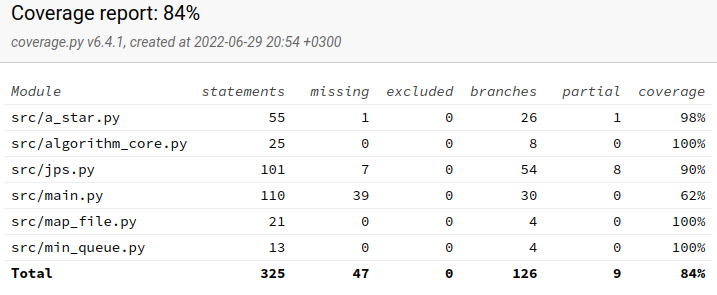
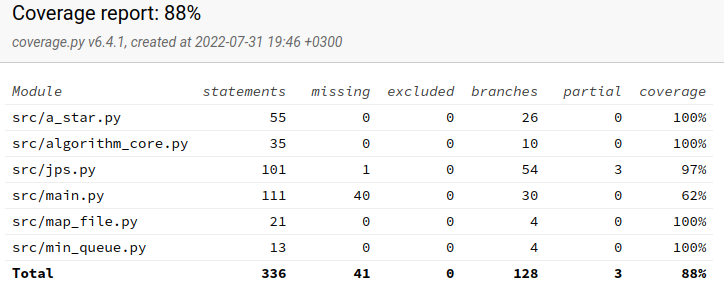
updated tests and testdocumentation

diff --git a/src/tests/test_a_star.py b/src/tests/test_a_star.py
@@ -36,7 +36,7 @@ class TestAStar(unittest.TestCase):
     def test_start_same_as_end(self):
         start = (1,1)
         end = (1,1)
-        self.assertEqual(self.test_a_star.a_star(start,end,2,1)[1], [(1,1)])
+        self.assertEqual(self.test_a_star.a_star(start,end,2,1)[1], ([(1,1)],0))
     
     def test_no_path_available_close_list(self):
         test_data = [['@','@','@','@','@'],
@@ -50,3 +50,79 @@ class TestAStar(unittest.TestCase):
         start = (1,3)
         end = (5,3)
         self.assertNotEqual(test_algorithm.a_star(start,end,2,1), "Polkua ei löytynyt!")
+    
+    def test_path_length_a_star(self):
+        test_data = [["@","@","@","@","@","@","@","@","@","@","@","@","@","@","@","@","@","@","@","@","@","@","@","@","@","@","@","@","@","@","@","@"],
+                    ["@",".",".",".","@",".",".",".",".",".",".",".",".",".",".",".",".",".",".",".",".",".",".","@","@",".",".","@","@",".",".","@"],
+                    ["@",".",".",".","@",".",".",".",".",".",".",".",".",".",".",".",".",".",".",".",".",".",".","@","@",".",".","@","@",".",".","@"],
+                    ["@",".",".",".","@","@","@","@","@","@","@","@","@","@","@","@","@","@","@","@","@",".",".",".",".",".",".","@","@",".",".","@"],
+                    ["@",".",".",".","@","@","@","@","@","@","@","@","@","@","@","@","@","@","@","@","@",".",".",".",".",".",".","@","@",".",".","@"],
+                    ["@",".",".",".","@",".",".",".",".",".",".",".",".",".","@",".",".",".",".",".",".",".",".",".",".",".",".","@","@",".",".","@"],
+                    ["@",".",".",".","@",".",".",".",".",".",".",".",".",".","@",".",".",".","@",".",".",".",".",".",".",".",".","@","@",".",".","@"],
+                    ["@",".",".",".","@",".",".",".",".",".",".",".",".",".",".",".",".",".",".",".",".",".",".",".",".",".",".","@","@",".",".","@"],
+                    ["@",".",".",".","@","@","@","@","@","@","@","@","@","@","@","@","@","@",".",".",".",".",".",".",".",".",".","@","@",".",".","@"],
+                    ["@",".",".",".","@","@",".",".",".",".",".",".","@",".",".",".",".",".",".",".","@",".",".",".",".",".",".","@","@",".",".","@"],
+                    ["@",".",".",".","@","@",".",".",".",".",".",".","@",".","@",".",".",".",".","@",".",".",".",".",".",".",".",".",".",".",".","@"],
+                    ["@",".",".",".","@","@",".",".",".",".",".",".","@",".",".",".",".",".","@",".",".",".",".",".",".",".",".",".",".",".",".","@"],
+                    ["@",".",".",".","@","@",".",".",".",".",".",".","@",".",".",".",".","@",".",".",".",".",".",".",".",".",".",".",".","@","@","@"],
+                    ["@",".",".",".","@","@",".",".",".",".",".",".","@",".",".",".","@","@","@","@","@","@","@",".","@",".",".",".",".","@","@","@"],
+                    ["@",".",".",".","@","@",".",".",".","@",".",".","@",".",".","@",".",".",".",".",".",".",".",".",".",".",".",".",".","@","@","@"],
+                    ["@",".",".",".","@","@",".",".","@",".",".",".","@",".","@",".",".",".",".",".",".",".","@",".",".",".",".",".",".","@","@","@"],
+                    ["@",".",".",".","@","@",".","@",".",".",".",".","@","@",".",".",".",".",".",".",".",".","@",".",".",".",".",".",".","@","@","@"],
+                    ["@",".",".",".","@","@","@",".",".",".",".",".","@","@","@","@","@","@","@","@","@","@","@","@","@","@",".",".",".","@","@","@"],
+                    ["@",".",".",".",".","@",".",".",".",".",".",".","@",".",".",".",".",".",".",".",".",".",".",".",".",".",".",".",".","@","@","@"],
+                    ["@","@",".",".",".",".",".",".",".","@","@","@","@",".",".",".",".",".",".",".",".",".",".",".",".",".",".",".",".","@","@","@"],
+                    ["@","@",".",".",".",".",".",".",".","@","@","@","@","@","@","@","@","@","@","@","@","@","@",".",".",".",".",".",".",".",".","@"],
+                    ["@",".",".",".",".",".",".",".",".",".",".",".",".","@","@",".",".",".",".",".",".",".",".",".",".",".",".",".",".",".",".","@"],
+                    ["@",".",".",".",".","@",".",".",".",".",".",".",".",".","@","@",".",".","@",".",".",".",".",".",".",".",".",".",".",".",".","@"],
+                    ["@","@",".",".",".",".",".",".",".",".",".",".",".",".",".","@","@",".",".","@",".",".",".","@",".",".",".",".",".",".",".","@"],
+                    ["@",".",".",".",".",".",".",".","@",".",".",".",".",".",".",".","@","@",".",".","@",".",".",".","@",".",".",".",".","@",".","@"],
+                    ["@",".","@",".",".",".",".",".",".",".",".",".",".",".",".",".",".","@","@",".",".","@",".","@",".",".",".",".",".","@",".","@"],
+                    ["@",".","@",".",".","@",".",".",".",".",".",".",".",".",".",".",".",".","@","@",".",".","@",".",".",".",".",".",".","@",".","@"],
+                    ["@",".",".",".","@",".",".",".","@","@","@","@","@",".",".",".",".",".",".","@","@","@",".",".",".",".",".",".",".","@",".","@"],
+                    ["@","@","@","@",".",".",".",".","@","@","@","@","@",".",".",".",".",".",".",".","@",".",".",".",".",".",".",".",".","@",".","@"],
+                    ["@",".",".",".",".",".",".",".",".",".","@",".",".",".",".",".",".",".",".",".",".",".",".",".",".",".",".",".",".","@",".","@"],
+                    ["@",".",".",".",".",".",".",".",".",".","@",".",".",".",".","@",".",".",".",".",".",".",".",".",".",".",".",".",".","@",".","@"],
+                    ["@","@","@","@","@","@","@","@","@","@","@","@","@","@","@","@","@","@","@","@","@","@","@","@","@","@","@","@","@","@","@","@"]]
+        test_algorithm = AStar(test_data)
+        start = (2,2)
+        end = (5,29)
+        self.assertEqual(round(test_algorithm.a_star(start,end,2,1)[4],6), 65.112698)
+    
+    def test_path_length_dijkstra(self):
+        test_data = [["@","@","@","@","@","@","@","@","@","@","@","@","@","@","@","@","@","@","@","@","@","@","@","@","@","@","@","@","@","@","@","@"],
+                    ["@",".",".",".","@",".",".",".",".",".",".",".",".",".",".",".",".",".",".",".",".",".",".","@","@",".",".","@","@",".",".","@"],
+                    ["@",".",".",".","@",".",".",".",".",".",".",".",".",".",".",".",".",".",".",".",".",".",".","@","@",".",".","@","@",".",".","@"],
+                    ["@",".",".",".","@","@","@","@","@","@","@","@","@","@","@","@","@","@","@","@","@",".",".",".",".",".",".","@","@",".",".","@"],
+                    ["@",".",".",".","@","@","@","@","@","@","@","@","@","@","@","@","@","@","@","@","@",".",".",".",".",".",".","@","@",".",".","@"],
+                    ["@",".",".",".","@",".",".",".",".",".",".",".",".",".","@",".",".",".",".",".",".",".",".",".",".",".",".","@","@",".",".","@"],
+                    ["@",".",".",".","@",".",".",".",".",".",".",".",".",".","@",".",".",".","@",".",".",".",".",".",".",".",".","@","@",".",".","@"],
+                    ["@",".",".",".","@",".",".",".",".",".",".",".",".",".",".",".",".",".",".",".",".",".",".",".",".",".",".","@","@",".",".","@"],
+                    ["@",".",".",".","@","@","@","@","@","@","@","@","@","@","@","@","@","@",".",".",".",".",".",".",".",".",".","@","@",".",".","@"],
+                    ["@",".",".",".","@","@",".",".",".",".",".",".","@",".",".",".",".",".",".",".","@",".",".",".",".",".",".","@","@",".",".","@"],
+                    ["@",".",".",".","@","@",".",".",".",".",".",".","@",".","@",".",".",".",".","@",".",".",".",".",".",".",".",".",".",".",".","@"],
+                    ["@",".",".",".","@","@",".",".",".",".",".",".","@",".",".",".",".",".","@",".",".",".",".",".",".",".",".",".",".",".",".","@"],
+                    ["@",".",".",".","@","@",".",".",".",".",".",".","@",".",".",".",".","@",".",".",".",".",".",".",".",".",".",".",".","@","@","@"],
+                    ["@",".",".",".","@","@",".",".",".",".",".",".","@",".",".",".","@","@","@","@","@","@","@",".","@",".",".",".",".","@","@","@"],
+                    ["@",".",".",".","@","@",".",".",".","@",".",".","@",".",".","@",".",".",".",".",".",".",".",".",".",".",".",".",".","@","@","@"],
+                    ["@",".",".",".","@","@",".",".","@",".",".",".","@",".","@",".",".",".",".",".",".",".","@",".",".",".",".",".",".","@","@","@"],
+                    ["@",".",".",".","@","@",".","@",".",".",".",".","@","@",".",".",".",".",".",".",".",".","@",".",".",".",".",".",".","@","@","@"],
+                    ["@",".",".",".","@","@","@",".",".",".",".",".","@","@","@","@","@","@","@","@","@","@","@","@","@","@",".",".",".","@","@","@"],
+                    ["@",".",".",".",".","@",".",".",".",".",".",".","@",".",".",".",".",".",".",".",".",".",".",".",".",".",".",".",".","@","@","@"],
+                    ["@","@",".",".",".",".",".",".",".","@","@","@","@",".",".",".",".",".",".",".",".",".",".",".",".",".",".",".",".","@","@","@"],
+                    ["@","@",".",".",".",".",".",".",".","@","@","@","@","@","@","@","@","@","@","@","@","@","@",".",".",".",".",".",".",".",".","@"],
+                    ["@",".",".",".",".",".",".",".",".",".",".",".",".","@","@",".",".",".",".",".",".",".",".",".",".",".",".",".",".",".",".","@"],
+                    ["@",".",".",".",".","@",".",".",".",".",".",".",".",".","@","@",".",".","@",".",".",".",".",".",".",".",".",".",".",".",".","@"],
+                    ["@","@",".",".",".",".",".",".",".",".",".",".",".",".",".","@","@",".",".","@",".",".",".","@",".",".",".",".",".",".",".","@"],
+                    ["@",".",".",".",".",".",".",".","@",".",".",".",".",".",".",".","@","@",".",".","@",".",".",".","@",".",".",".",".","@",".","@"],
+                    ["@",".","@",".",".",".",".",".",".",".",".",".",".",".",".",".",".","@","@",".",".","@",".","@",".",".",".",".",".","@",".","@"],
+                    ["@",".","@",".",".","@",".",".",".",".",".",".",".",".",".",".",".",".","@","@",".",".","@",".",".",".",".",".",".","@",".","@"],
+                    ["@",".",".",".","@",".",".",".","@","@","@","@","@",".",".",".",".",".",".","@","@","@",".",".",".",".",".",".",".","@",".","@"],
+                    ["@","@","@","@",".",".",".",".","@","@","@","@","@",".",".",".",".",".",".",".","@",".",".",".",".",".",".",".",".","@",".","@"],
+                    ["@",".",".",".",".",".",".",".",".",".","@",".",".",".",".",".",".",".",".",".",".",".",".",".",".",".",".",".",".","@",".","@"],
+                    ["@",".",".",".",".",".",".",".",".",".","@",".",".",".",".","@",".",".",".",".",".",".",".",".",".",".",".",".",".","@",".","@"],
+                    ["@","@","@","@","@","@","@","@","@","@","@","@","@","@","@","@","@","@","@","@","@","@","@","@","@","@","@","@","@","@","@","@"]]
+        test_algorithm = AStar(test_data)
+        start = (2,2)
+        end = (5,29)
+        self.assertEqual(round(test_algorithm.a_star(start,end,2,3)[4],6), 65.112698)

diff --git a/src/tests/test_jps.py b/src/tests/test_jps.py
@@ -54,5 +54,43 @@ class TestAStar(unittest.TestCase):
     def test_start_same_as_end(self):
         start = (1,1)
         end = (1,1)
-        self.assertEqual(self.test_jps.jps(start,end)[1], [(1,1)])
+        self.assertEqual(self.test_jps.jps(start,end)[1], ([(1,1)],0))
+
+    def test_path_length_jps(self):
+        test_data = [["@","@","@","@","@","@","@","@","@","@","@","@","@","@","@","@","@","@","@","@","@","@","@","@","@","@","@","@","@","@","@","@"],
+                    ["@",".",".",".","@",".",".",".",".",".",".",".",".",".",".",".",".",".",".",".",".",".",".","@","@",".",".","@","@",".",".","@"],
+                    ["@",".",".",".","@",".",".",".",".",".",".",".",".",".",".",".",".",".",".",".",".",".",".","@","@",".",".","@","@",".",".","@"],
+                    ["@",".",".",".","@","@","@","@","@","@","@","@","@","@","@","@","@","@","@","@","@",".",".",".",".",".",".","@","@",".",".","@"],
+                    ["@",".",".",".","@","@","@","@","@","@","@","@","@","@","@","@","@","@","@","@","@",".",".",".",".",".",".","@","@",".",".","@"],
+                    ["@",".",".",".","@",".",".",".",".",".",".",".",".",".","@",".",".",".",".",".",".",".",".",".",".",".",".","@","@",".",".","@"],
+                    ["@",".",".",".","@",".",".",".",".",".",".",".",".",".","@",".",".",".","@",".",".",".",".",".",".",".",".","@","@",".",".","@"],
+                    ["@",".",".",".","@",".",".",".",".",".",".",".",".",".",".",".",".",".",".",".",".",".",".",".",".",".",".","@","@",".",".","@"],
+                    ["@",".",".",".","@","@","@","@","@","@","@","@","@","@","@","@","@","@",".",".",".",".",".",".",".",".",".","@","@",".",".","@"],
+                    ["@",".",".",".","@","@",".",".",".",".",".",".","@",".",".",".",".",".",".",".","@",".",".",".",".",".",".","@","@",".",".","@"],
+                    ["@",".",".",".","@","@",".",".",".",".",".",".","@",".","@",".",".",".",".","@",".",".",".",".",".",".",".",".",".",".",".","@"],
+                    ["@",".",".",".","@","@",".",".",".",".",".",".","@",".",".",".",".",".","@",".",".",".",".",".",".",".",".",".",".",".",".","@"],
+                    ["@",".",".",".","@","@",".",".",".",".",".",".","@",".",".",".",".","@",".",".",".",".",".",".",".",".",".",".",".","@","@","@"],
+                    ["@",".",".",".","@","@",".",".",".",".",".",".","@",".",".",".","@","@","@","@","@","@","@",".","@",".",".",".",".","@","@","@"],
+                    ["@",".",".",".","@","@",".",".",".","@",".",".","@",".",".","@",".",".",".",".",".",".",".",".",".",".",".",".",".","@","@","@"],
+                    ["@",".",".",".","@","@",".",".","@",".",".",".","@",".","@",".",".",".",".",".",".",".","@",".",".",".",".",".",".","@","@","@"],
+                    ["@",".",".",".","@","@",".","@",".",".",".",".","@","@",".",".",".",".",".",".",".",".","@",".",".",".",".",".",".","@","@","@"],
+                    ["@",".",".",".","@","@","@",".",".",".",".",".","@","@","@","@","@","@","@","@","@","@","@","@","@","@",".",".",".","@","@","@"],
+                    ["@",".",".",".",".","@",".",".",".",".",".",".","@",".",".",".",".",".",".",".",".",".",".",".",".",".",".",".",".","@","@","@"],
+                    ["@","@",".",".",".",".",".",".",".","@","@","@","@",".",".",".",".",".",".",".",".",".",".",".",".",".",".",".",".","@","@","@"],
+                    ["@","@",".",".",".",".",".",".",".","@","@","@","@","@","@","@","@","@","@","@","@","@","@",".",".",".",".",".",".",".",".","@"],
+                    ["@",".",".",".",".",".",".",".",".",".",".",".",".","@","@",".",".",".",".",".",".",".",".",".",".",".",".",".",".",".",".","@"],
+                    ["@",".",".",".",".","@",".",".",".",".",".",".",".",".","@","@",".",".","@",".",".",".",".",".",".",".",".",".",".",".",".","@"],
+                    ["@","@",".",".",".",".",".",".",".",".",".",".",".",".",".","@","@",".",".","@",".",".",".","@",".",".",".",".",".",".",".","@"],
+                    ["@",".",".",".",".",".",".",".","@",".",".",".",".",".",".",".","@","@",".",".","@",".",".",".","@",".",".",".",".","@",".","@"],
+                    ["@",".","@",".",".",".",".",".",".",".",".",".",".",".",".",".",".","@","@",".",".","@",".","@",".",".",".",".",".","@",".","@"],
+                    ["@",".","@",".",".","@",".",".",".",".",".",".",".",".",".",".",".",".","@","@",".",".","@",".",".",".",".",".",".","@",".","@"],
+                    ["@",".",".",".","@",".",".",".","@","@","@","@","@",".",".",".",".",".",".","@","@","@",".",".",".",".",".",".",".","@",".","@"],
+                    ["@","@","@","@",".",".",".",".","@","@","@","@","@",".",".",".",".",".",".",".","@",".",".",".",".",".",".",".",".","@",".","@"],
+                    ["@",".",".",".",".",".",".",".",".",".","@",".",".",".",".",".",".",".",".",".",".",".",".",".",".",".",".",".",".","@",".","@"],
+                    ["@",".",".",".",".",".",".",".",".",".","@",".",".",".",".","@",".",".",".",".",".",".",".",".",".",".",".",".",".","@",".","@"],
+                    ["@","@","@","@","@","@","@","@","@","@","@","@","@","@","@","@","@","@","@","@","@","@","@","@","@","@","@","@","@","@","@","@"]]
+        test_algorithm = Jps(test_data)
+        start = (2,2)
+        end = (5,29)
+        self.assertEqual(round(test_algorithm.jps(start,end)[4],6), 65.112698)
     

diff --git a/src/main.py b/src/main.py
@@ -83,6 +83,9 @@ class Main:
         points = objects[1].get_points(objects)
         start_c = (int(points[0][0]/2), int(points[0][1]/2))
         end_c = (int(points[1][0]/2), int(points[1][1]/2))
+
+        #start_c = (203,6)
+        #end_c = (75,292)
         start_time = time.time()
         if self.algorithm in (1, 3):
             results = objects[6].a_star(start_c, end_c, self.heuristic, self.algorithm)
@@ -93,7 +96,8 @@ class Main:
         if isinstance(results, str):
             print (results)
         else:
-            self.print_results(start_time, end_time, results[2], results[3], len(results[1]))
+            print(f"Start: {start_c}, End: {end_c}")
+            self.print_results(start_time, end_time, results[2], results[3], len(results[1]),results[4])
             objects[1].update_map(results)
 
         self.reset(objects)
@@ -193,7 +197,7 @@ class Main:
             self.heuristic = 0
 
 
-    def print_results(self, start_time, end_time, open_counter, close_counter, path_length):
+    def print_results(self, start_time, end_time, open_counter, close_counter, path_length, lenght):
         ''' Tulostaa tulokset
             Args:
                 start_time : aloitusaika
@@ -205,4 +209,6 @@ class Main:
         print("Aika:", round((end_time-start_time), 3))
         print(f"Lisätty avoimelle listalle: {open_counter} \n"+
             f"Tarkistettu pisteittä: {close_counter} \n"+
-            f"Polkun pituus: {path_length}")
+            f"Polun pituus (pisteina): {path_length} \n"+
+            f"Polun pituus: {lenght:.6f}")
+

diff --git a/src/jps.py b/src/jps.py
@@ -1,6 +1,6 @@
 ''' JPS - algorithm
     Args:
-    COST : verekkäin olevien ruutujen hinta, 1
+    COST : vierekkäin olevien ruutujen hinta, 1
     DIAG_COST : diagonaalisesti vierekkäin olevien ruutujen hinta, neliöjuuri(2)
     DIRECTIONS : 8 suunnan siirtymäkoordinaatit
 '''
@@ -76,7 +76,7 @@ class Jps:
             self.expand_node(node)
         if self.ready:
             results = self.jps_core.get_path(self.end, self.parent)
-            return (self.parent, results, self.open_counter, self.close_counter)
+            return (self.parent, results[0], self.open_counter, self.close_counter, results[1])
         return "Polkua ei löytynyt!"
 
     def expand_node(self, node):

diff --git a/src/algorithm_core.py b/src/algorithm_core.py
@@ -67,4 +67,15 @@ class AlgorithmCore:
             self.path.append(parent.pop(self.path[-1]))
             node = self.path[-1]
         reversed_path = self.path[::-1]
-        return reversed_path
+        path_lenght = self.path_lenght(reversed_path)
+        return reversed_path, path_lenght
+    
+    def path_lenght(self, path):
+        lenght = 0
+        for index in range(len(path)-1):
+            start = path[index]
+            end = path[index+1]
+            price = self.heuristic_method(start, end, 3)
+            lenght += price
+            print(index,": siirtymä:", start, "->", end, ": kokonaisuus", lenght)
+        return lenght

diff --git a/src/a_star.py b/src/a_star.py
@@ -71,7 +71,7 @@ class AStar:
             self.expand_node(node, end, heuristic, algorithm)
         if self.ready:
             results = self.a_star_core.get_path(end, self.parent)
-            return (self.parent, results, self.open_counter, len(self.close_list))
+            return (self.parent, results[0], self.open_counter, len(self.close_list), results[1])
         return "Polkua ei löytynyt!"
 
     def expand_node(self, node, end, heuristic, algorithm):

diff --git a/src/tests/test_core.py b/src/tests/test_core.py
@@ -60,7 +60,7 @@ class TestAlgorithmCore(unittest.TestCase):
     def test_path_correct(self):
         end = (3,4)
         parent = {(1,1): None, (2,1): (1,1), (2,3): (2,1), (3,4): (2,3)}
-        self.assertEqual(self.test_core.get_path(end, parent),[(1,1),(2,1),(2,3),(3,4)])
+        self.assertEqual(self.test_core.get_path(end, parent),([(1,1), (2,1), (2,3), (3,4)], 4.414213562373095))
     
     def test_path_start_point_missing(self):
         end = (3,4)

diff --git a/dokumentaatio/testausdokumentti.md b/dokumentaatio/testausdokumentti.md
@@ -11,7 +11,15 @@ Ohjelman yksikkötestaus on suoritettu unittestillä ja se kattaa muut osat pait
 
 ![Coverage](https://github.com/zmejka/MM-Tira-harjoitustyo2022/blob/master/dokumentaatio/kuvat/coverage_end.png)
 
+Kuva päivitetty 31.7.2022
+
 Yksikkötestit ajetaan automaattisesti githup push- ja pull- toimintojen yhteydessä. Yksikkötestiraportit ovat luettavissa Codecov:ssa.
+
+### Polun pituuden yksikkötestaus 
+Lisätty 31.7.2022
+Yksikkötesteihin lisättiin 32x32 kartta. Kartassa alkun ja kohdepisteiden välillä on useita lyhyintä reittiä. Kuvassa esitetty kaksi esimerkkiä reitteistä. Lyhyimmän reitin pituus on laskettu käsiin 65.1126983722. Kaikki kolme algoritmiä löytävät saman pituisen lyhyimmän reitin tästä kartasta. Tarkastus on tehty 6 desimaalin tarkkuudella.
+
+![Polku](https://github.com/zmejka/MM-Tira-harjoitustyo2022/blob/master/dokumentaatio/kuvat/polku_kartta.png)  
 
 ## Koodin laatu
 
